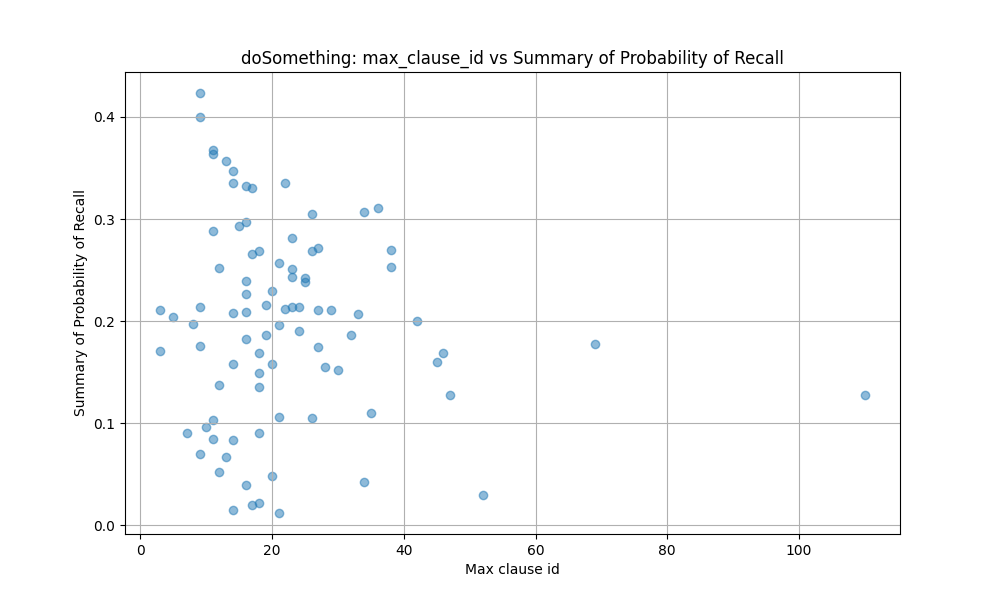
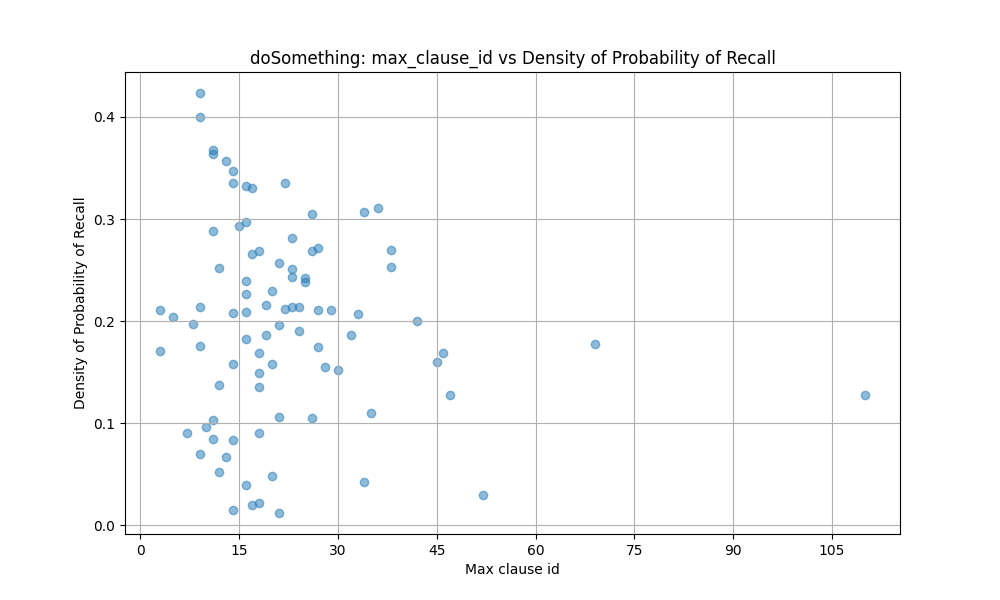
fix titles

diff --git a/7e71ecbb7830fd69dc78ba1369a452129b88e980fdbb6d63285fbb8f912f/max_clause_id_vs_recall.html b/7e71ecbb7830fd69dc78ba1369a452129b88e980fdbb6d63285fbb8f912f/max_clause_id_vs_recall.html
@@ -4,14 +4,19 @@
 <head>
     <meta charset="UTF-8">
     <meta name="viewport" content="width=device-width, initial-scale=1.0">
-    <title>Pearson Correlation Images</title>
+    <title>Max clause_id vs recall quality</title>
     <link rel="stylesheet" href="../assets/styles.css">
 </head>
 
 <body>
     <header>
-        <h1>Pearson Correlation Images</h1>
-        <h3>Pearson correlation between segments recalled by the same clause.</h3>
+        <h1>Max clause_id vs recall quality</h1>
+        <h3>
+        The y-axis represents the quality of recall for each recall_id.
+        This is calculated by summing the 'probability of recall' for each segment 
+        recalled by a subject.  Then sum then is divided by number of clauses 
+        in this particallular recall.
+        <b>mapped to</b> by this recall id
     </header>
 
     <section class="toc">
